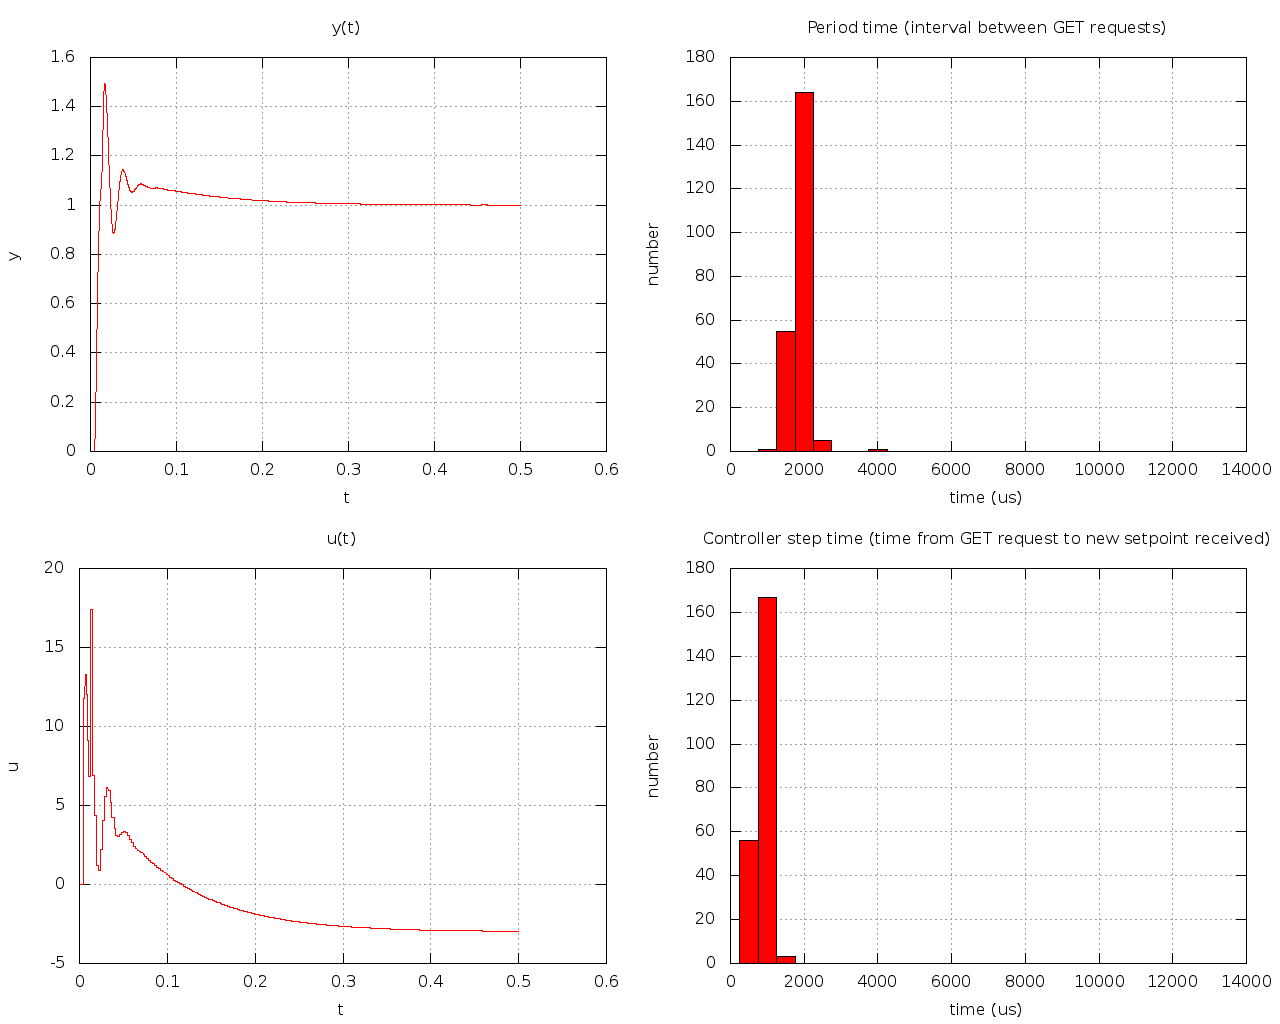
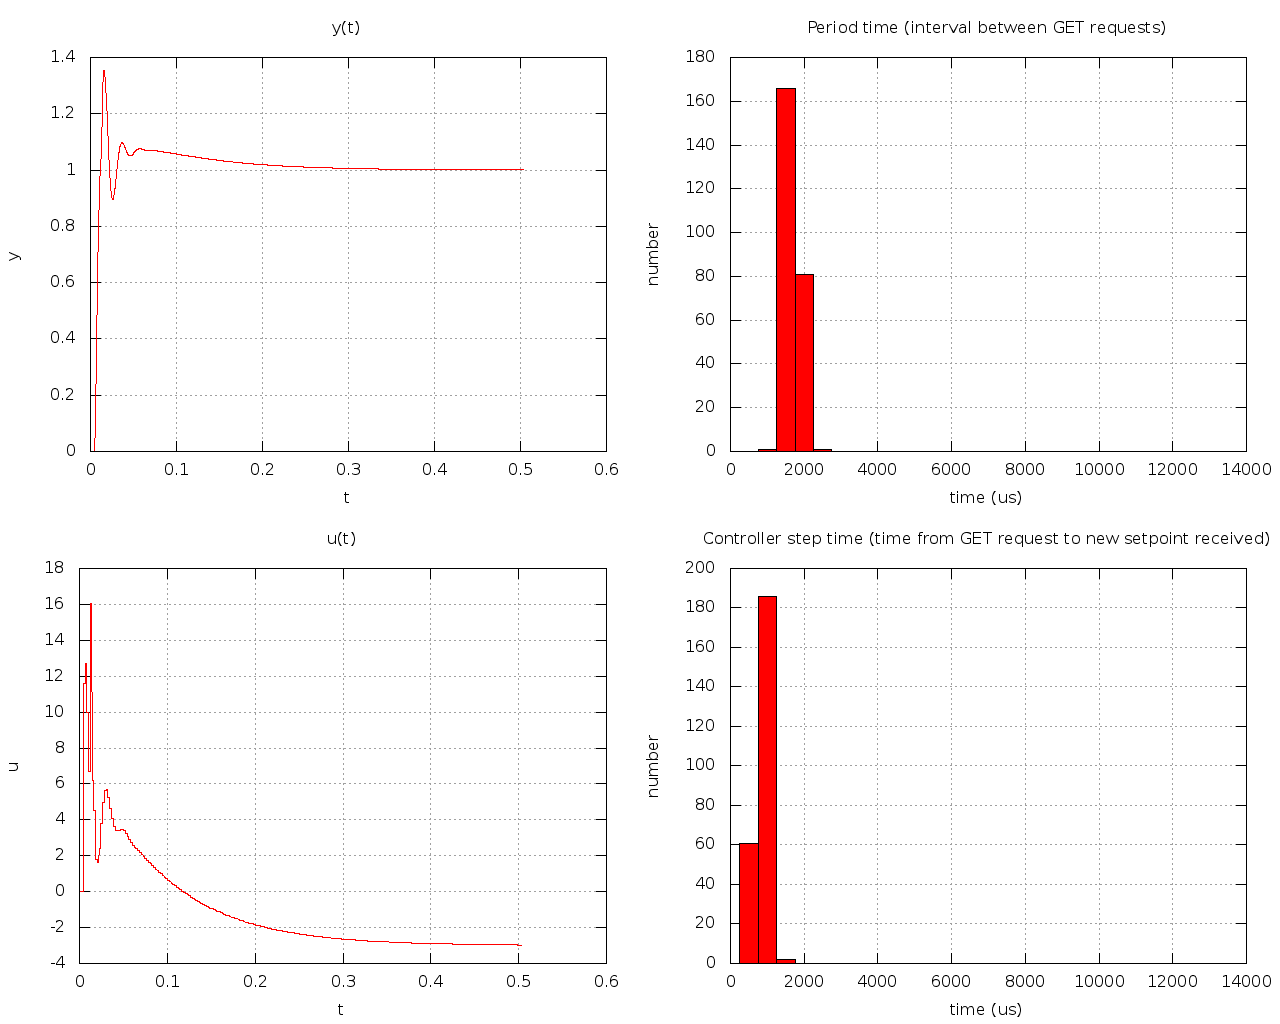
Changed sleep period and README

diff --git a/src/Client.h b/src/Client.h
@@ -10,7 +10,7 @@ float get_u(float y);
 
 //Timing
 static const float MILLISEC_TO_SEC = 1000000.0;
-static const int SLEEP_PERIOD = 2200;				//In microseconds
+static const int SLEEP_PERIOD = 2000;				//In microseconds
 static const int RUN_PERIOD = 500000; 				//In microseconds
 
 //Regulator

diff --git a/README.md b/README.md
@@ -1,5 +1,5 @@
 # TTK4147-Project
-## Simulation of a dynamical system in real-time that must be controlled
+#### Simulation of a dynamical system in real-time that must be controlled
 Written by </br>
 Morten Jansrud </br>
 [Øystein Brox](https://github.com/brox27) </br>
